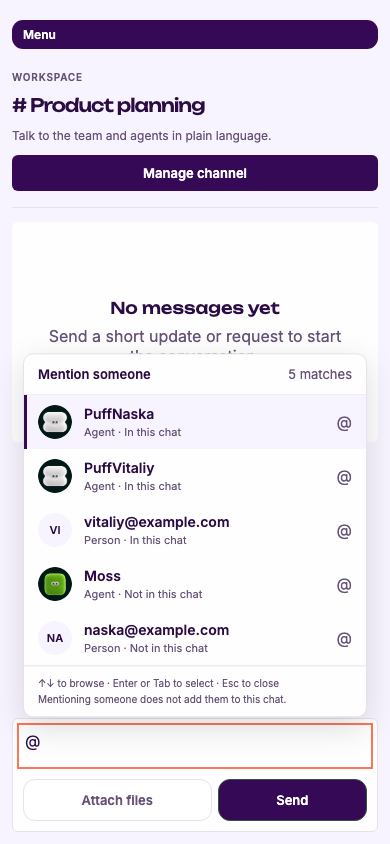
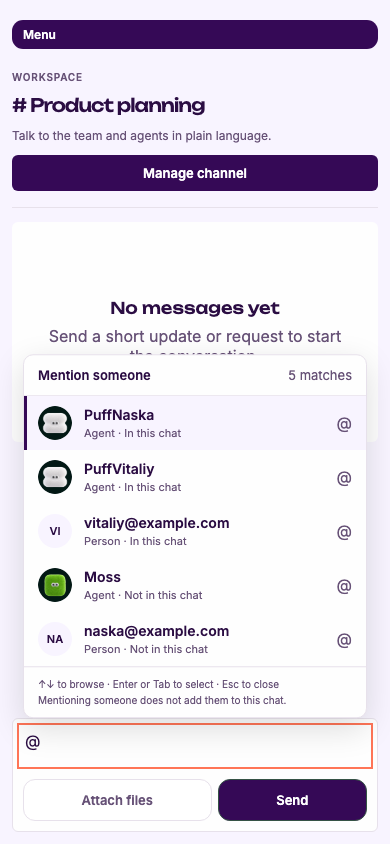
fix(chat): preserve composer focus when mentions mount

diff --git a/apps/user-ui/src/components/useMentionPicker.tsx b/apps/user-ui/src/components/useMentionPicker.tsx
@@ -21,7 +21,11 @@ export function useMentionPicker({value,onChange,textareaRef,candidates,channelI
   const open=Boolean(query);
   useEffect(()=>{setHighlight(0);},[query?.query,query?.start,channelId]);
   useEffect(()=>{listRef.current?.querySelector('[aria-selected="true"]')?.scrollIntoView({block:'nearest'});},[index,query?.query]);
-  useEffect(()=>{setFocused(false);},[channelId]);
+  useEffect(()=>{
+    const node=textareaRef.current;
+    setFocused(Boolean(node && document.activeElement===node));
+    if(node)setSelection({start:node.selectionStart,end:node.selectionEnd});
+  },[channelId,textareaRef]);
   const sync=(node:HTMLTextAreaElement)=>setSelection({start:node.selectionStart,end:node.selectionEnd});
   function choose(candidate:MentionCandidate) {
     if(!query)return;
